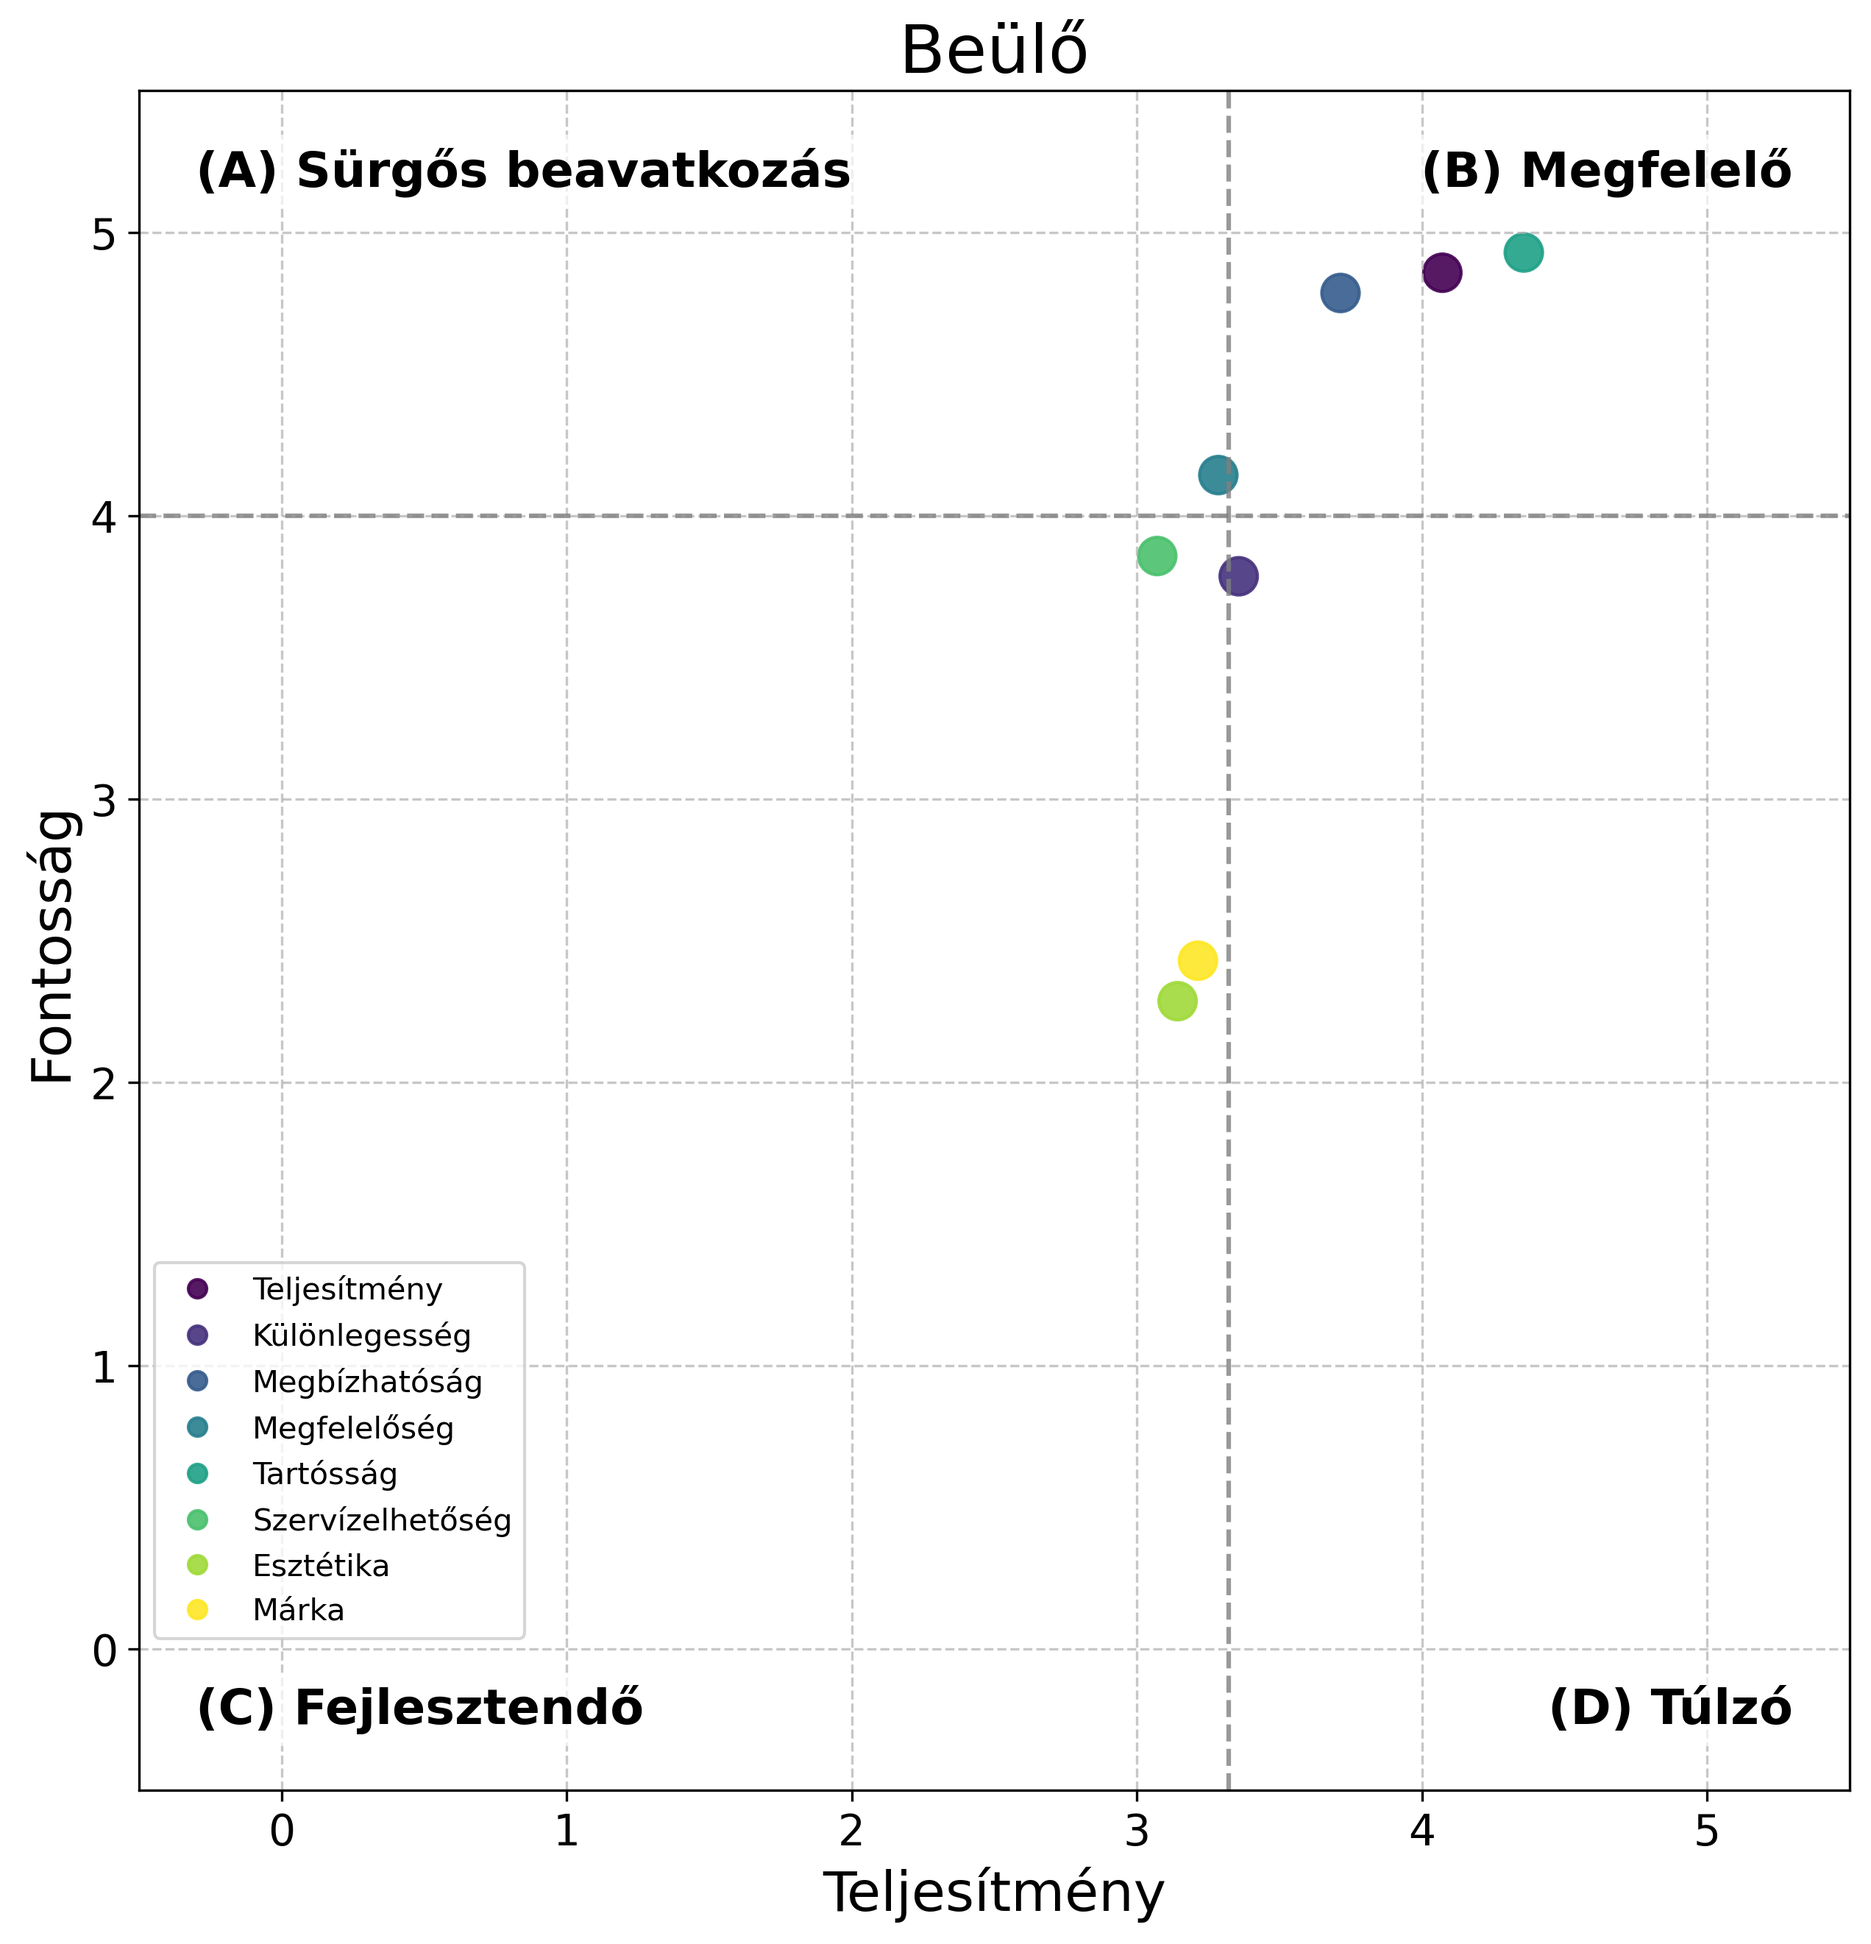
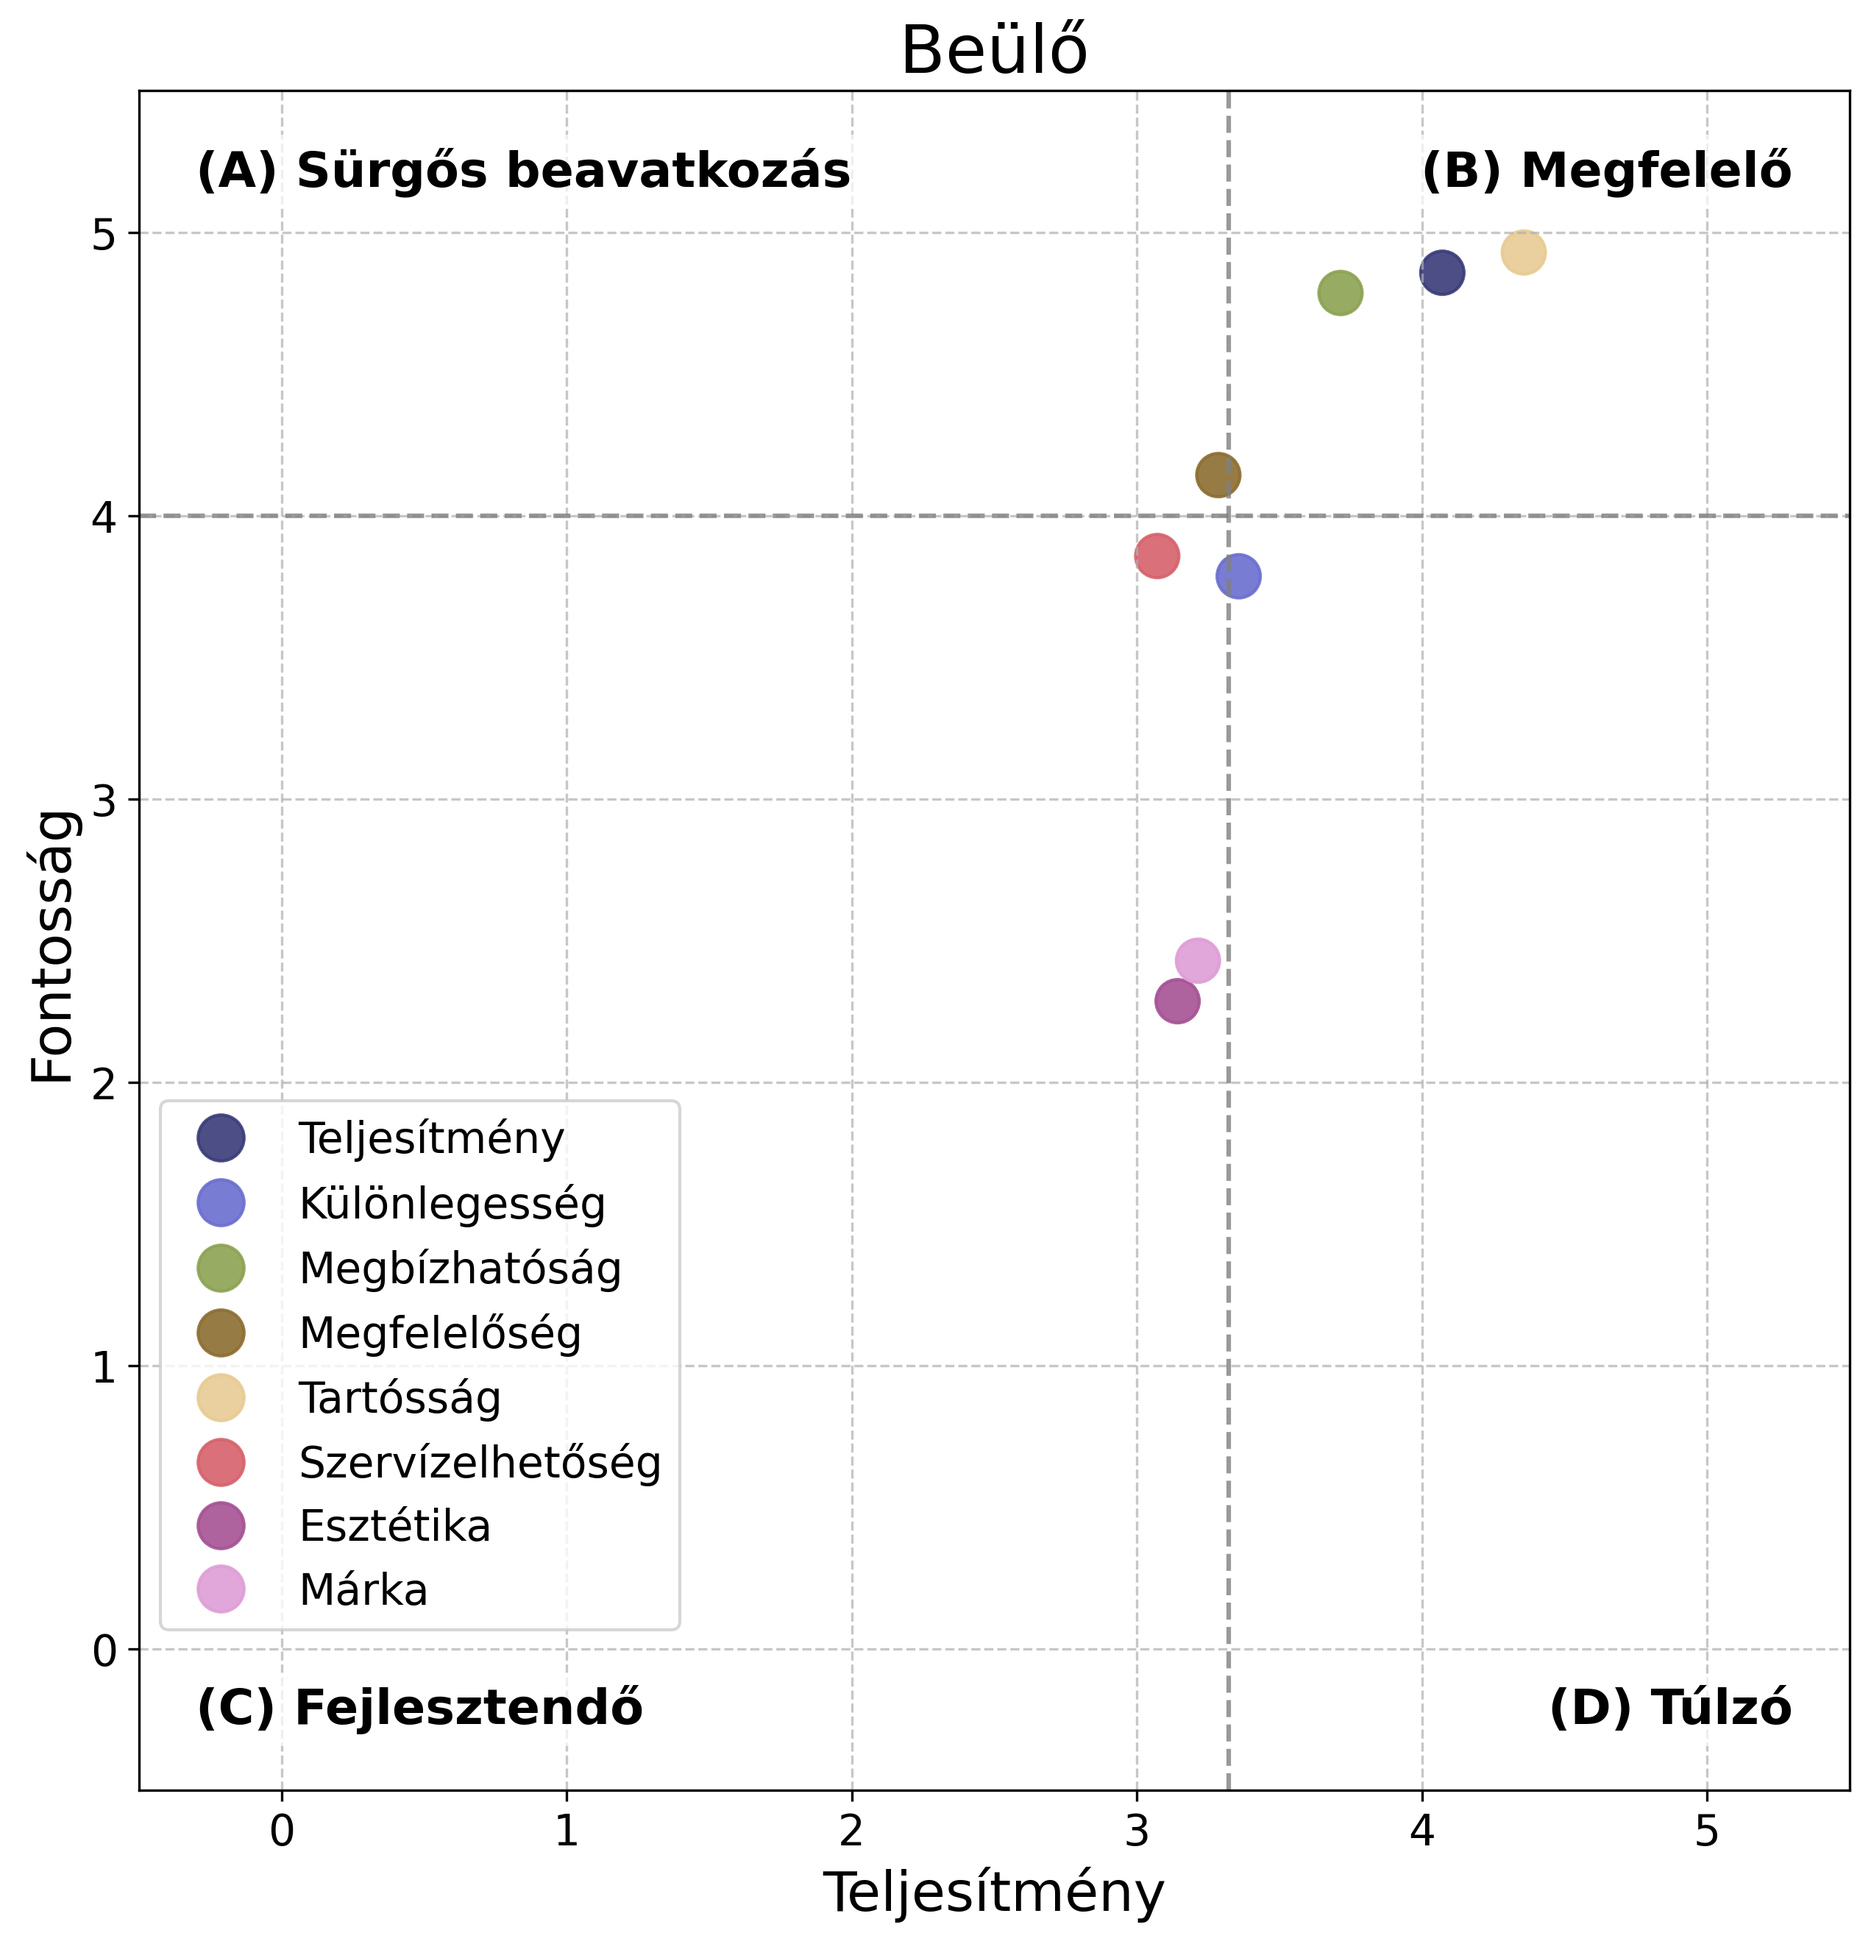
wip

diff --git a/main.py b/main.py
@@ -28,14 +28,19 @@ def create_importance_performance_plot(csv_path, output_path, title):
     # Create scatter plot of means with vibrant colors
     scatter = plt.scatter(means[:, 1], means[:, 0], 
                c=range(len(means)),  # Use index for distinct colors
-               cmap='viridis',
-               s=150,  # Increased marker size
+               cmap='tab20b',
+               s=200,  # Increased marker size
                alpha=0.9)  # Increased opacity
 
     # Add legend
-    plt.legend(scatter.legend_elements()[0], aspect_names,
+    legend = plt.legend(scatter.legend_elements()[0], aspect_names,
               loc='center left',
-              bbox_to_anchor=(0.00, 0.20))
+              bbox_to_anchor=(0.00, 0.25),
+              fontsize=14)
+    
+    # Make legend markers bigger
+    for handle in legend.legend_handles:
+        handle.set_markersize(15)  # Increase marker size in legend
 
     # Add labels and title
     plt.xlabel('Teljesítmény', fontsize=18)
